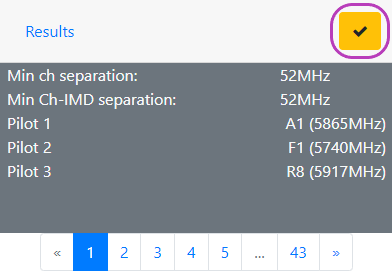
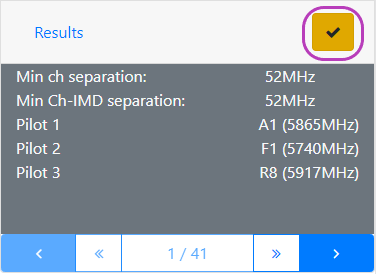
Help update

Changed region(s): [[0.0, 0.0, 1.0, 1.0], [0.0585, 0.0876, 0.234, 0.146], [0.6436, 0.9051, 0.6729, 0.9343]]

diff --git a/src/app/help/help.component.html b/src/app/help/help.component.html
@@ -15,31 +15,42 @@
   <figure class="figure">
     <p>Pick which bands are legal where you fly (or mostly legal) by tapping on "Bands" and selecting/deselecting bands
       you want to use.</p>
-    <img class="img-fluid" src="../../assets/open-bands.png" alt="Open bands">
+    <img alt="Open bands" class="img-fluid" src="../../assets/open-bands.png">
   </figure>
 
   <figure class="figure">
     <p>Selected bands are shown within parenthesis.</p>
-    <img class="img-fluid" src="../../assets/bands-selected.png" alt="Selected bands">
+    <img alt="Selected bands" class="img-fluid" src="../../assets/bands-selected.png">
   </figure>
 
   <figure class="figure">
     <p>Add pilots by tapping that big green plus sign. Current number of pilots is show within parenthesis. Also,
       tapping
       on "Pilots" will expand pilot section. Also, you can set a nickname for each pilot if that is your thing.</p>
-    <img class="img-fluid" src="../../assets/adding-pilots.png" alt="Adding pilots">
+    <img alt="Adding pilots" class="img-fluid" src="../../assets/adding-pilots.png">
   </figure>
 
   <figure class="figure">
     <p>Tapping on band name for pilot will show all channels. You can choose individual channels for each band.</p>
-    <img class="img-fluid" src="../../assets/band-expanded.png" alt="Band expanded">
+    <img alt="Band expanded" class="img-fluid" src="../../assets/band-expanded.png">
   </figure>
 
   <figure class="figure">
     <p>Or simply select all channels within a band by tapping check-mark. When all channels within a band are selected
       for
       a pilot, check-mark will turn black.</p>
-    <img class="img-fluid" src="../../assets/band-all-ch-selected.png" alt="All channels selected">
+    <img alt="All channels selected" class="img-fluid" src="../../assets/band-all-ch-selected.png">
+  </figure>
+
+  <figure class="figure">
+    <p>If you have that one friend has an old VTX buried deep within the model and he can't change his power setting,
+      you can mark him as one frequency all of you want to stay as far away as possible by pressing this button.</p>
+    <p>In this case application will return results sorted by maximum separation from his channel. You might have to
+      flip trough a couple of pages to find a workable combination.
+    <p class="text-muted">
+      Note, this option is available only with three or more pilots. Blue indicates feature is active.
+    </p>
+    <img alt="That one pesky pilot" class="img-fluid" src="../../assets/pesky-pilot.png">
   </figure>
 
   <figure class="figure">
@@ -48,7 +59,7 @@
       you. Give it some time, it is not easy to search trough all those combinations. Results will show minimum
       separation
       between channels and minimum separation from any IMD frequency.</p>
-    <img class="img-fluid" src="../../assets/and-results.png" alt="Results">
+    <img alt="Results" class="img-fluid" src="../../assets/and-results.png">
   </figure>
 
   <blockquote class="blockquote">

diff --git a/src/app/app.component.html b/src/app/app.component.html
@@ -71,14 +71,6 @@
                      [name]="'pilot.nickname' + i"
                      class="form-control"
                      type="text">
-
-              <!--<div class="btn-group-toggle" data-toggle="buttons">-->
-              <!--<label class="btn btn-secondary active">-->
-              <!--<input type="checkbox"-->
-              <!--[(ngModel)]="pilot.preferMaximumSeparationFromOthers"-->
-              <!--[ngModelOptions]="{standalone: true}"> Pref. max. sep-->
-              <!--</label>-->
-              <!--</div>-->
             </div>
             <div class="form-group d-flex" style="padding-left: 5px" *ngIf="pilots.length > 2">
               <button
@@ -160,7 +152,7 @@
             <div class="col">
               <span>Min ch separation:</span>
             </div>
-            <div class="col-4">
+            <div class="col-4 text-right">
               <span>{{recommendations[page - 1].result.minimumSeparationChannel}}MHz</span>
             </div>
           </div>
@@ -168,14 +160,14 @@
             <div class="col">
               <span>Min Ch-IMD separation:</span>
             </div>
-            <div class="col-4">
+            <div class="col-4 text-right">
               <span>{{recommendations[page - 1].result.minimumSeparationImd}}MHz</span>
             </div>
           </div>
           <div *ngFor="let pilot of recommendations[page - 1].pilots" class="row">
             <div class="col">
               <span>{{pilot.nickname}}{{pilot.preferMaximumSeparationFromOthers ?
-                ' (min: ' + pilot.minimumSeparationFromOthers + 'MHz)' : ''}}</span>
+                ' (' + pilot.minimumSeparationFromOthers + 'MHz)' : ''}}</span>
             </div>
             <div class="col-6 text-right">
               <span>{{pilot.recommendedChannel.band.name}}{{pilot.recommendedChannel.number}}
